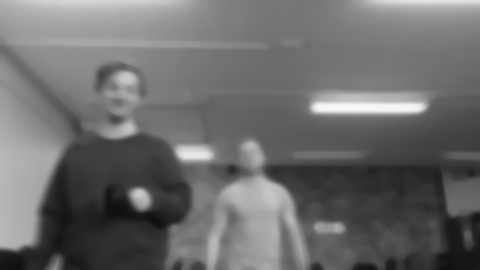
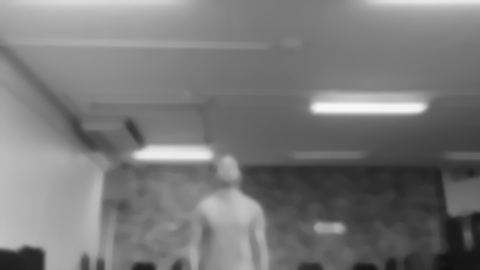
code lost -reprogrammed motio detection

Changed region(s): [[0.0625, 0.2074, 0.6562, 1.0]]

diff --git a/system/SurveillanceSystem.py b/system/SurveillanceSystem.py
@@ -164,16 +164,42 @@ class Surveillance_System(object):
         logging.debug('Processing Frames')
         state = 1
         frame_count = 0;
+        start = time.time()
         while True:  
 
              frame = camera.read_frame()
              frame = ImageProcessor.resize(frame)
              height, width, channels = frame.shape
-             # #
+
+             if state == 1:
+                 motion = ImageProcessor.motion_detector(camera,frame)
+                 if motion == True:
+                    logging.debug('Motion Detected - Looking for faces in Face Detection Mode')
+                    state = 2
+                 camera.processed_frame = frame
+
+             elif state == 2:
+
+                if frame_count == 0:
+                  start = time.time()
+                  frame_count += 1
+
+                with camera.frame_lock: #aquire lock
+                    camera.faceBoxes, camera.rgbFrame  = ImageProcessor.detectdlib_face(frame,height, width)
+                if len(camera.faceBoxes) == 0:
+                  if (time.time() - start) > 10.0:
+                    logging.debug('No faces found for ' + str(time.time() - start) + ' seconds - Going back to Motion Detection Mode')
+                    state = 1
+                    frame_count = 0;
+                    camera.processed_frame = frame
+                else:
+                    start = time.time()
+                    camera.processed_frame = ImageProcessor.draw_rects_dlib(frame, camera.faceBoxes)
+
              #camera.faceBoxes, camera.rgbFrame  = ImageProcessor.detectdlib_face(frame, height, width )
-             frame  = ImageProcessor.detectopencv_face(frame)
-             frame  = ImageProcessor.detect_people_cascade(frame)
-             camera.processed_frame = frame #ImageProcessor.draw_rects_dlib(frame, camera.faceBoxes)
+             #frame  = ImageProcessor.detectopencv_face(frame)
+             #frame  = ImageProcessor.detect_people_cascade(frame)
+             #camera.processed_frame = frame #ImageProcessor.draw_rects_dlib(frame, camera.faceBoxes)
                       
           
    def people_processing(self,camera):   
@@ -198,7 +224,7 @@ class Surveillance_System(object):
                     if camera.people[predictions['name']].confidence < predictions['confidence']:
 
                         camera.people[predictions['name']].confidence = predictions['confidence']
-                        if (predictions['confidence'] > 70):
+                        if (predictions['confidence'] > 90):
                             cv2.imwrite("notification/image.png", camera.processed_frame)
                             self.send_notification_alert(predictions['name'],camera.people[predictions['name']].confidence)
 
